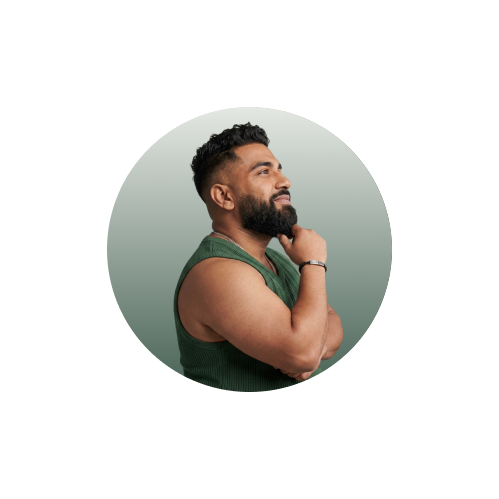
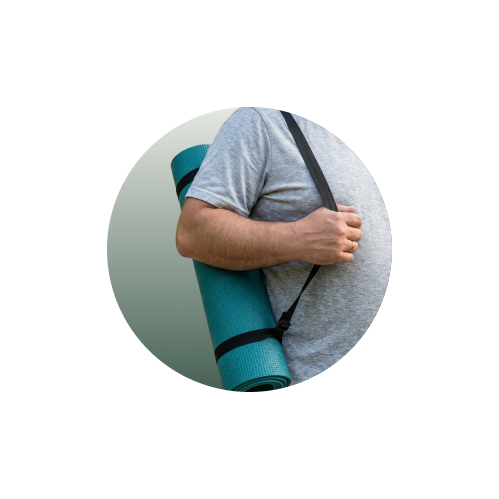
membership page updated

Changed region(s): [[0.3307, 0.2104, 0.8116, 0.7816]]

diff --git a/src/components/sections/ExpertOffers/ExpertOffers.jsx b/src/components/sections/ExpertOffers/ExpertOffers.jsx
@@ -14,7 +14,7 @@ const cards = [
   {
     title: 'Member-only perks',
     text: 'Unlock exclusive benefits and partner offers as a member.',
-    image: '/images/h-Exclusive-Offers-05.png',
+    image: '/images/h-Exclusive-Offers-05.webp',
   },
 ]
 
